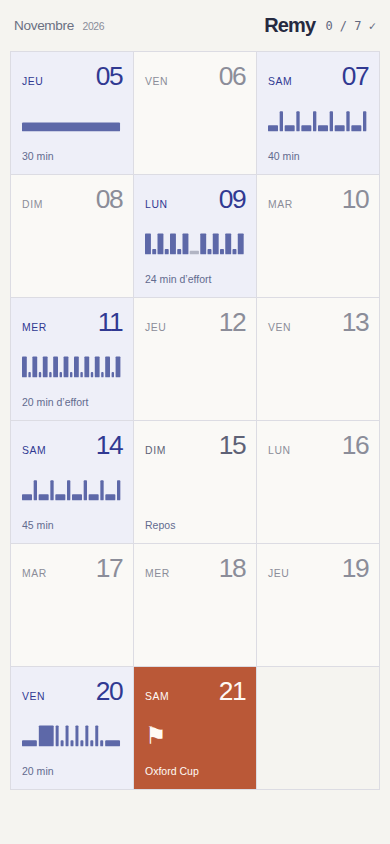
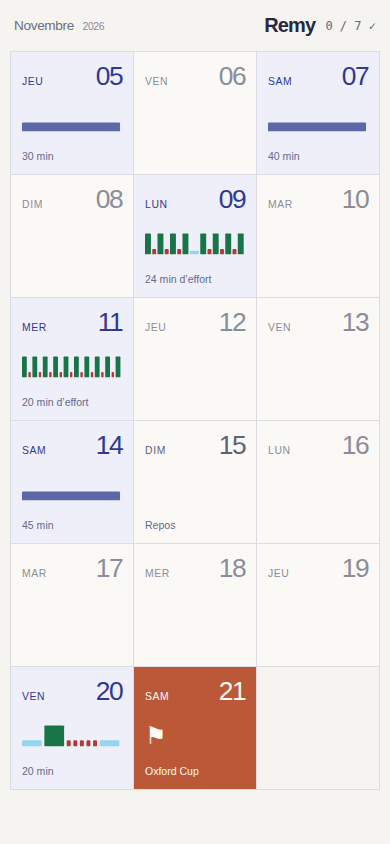
Aligne les graphiques sur les couleurs du chrono sans strides

diff --git a/style.css b/style.css
@@ -1,6 +1,6 @@
 @layer base, calendar, details, timer;
 @layer base {
-  :root { font-family: Arial, Helvetica, sans-serif; color: #252940; background: #f5f4f0; font-synthesis: none; --ink: #303992; --paper: #f7f6f2; --muted: #797b88; --line: #dcdce3; --accent: #d76b42; }
+  :root { font-family: Arial, Helvetica, sans-serif; color: #252940; background: #f5f4f0; font-synthesis: none; --ink: #303992; --paper: #f7f6f2; --muted: #797b88; --line: #dcdce3; --accent: #d76b42; --phase-easy: #94d5f2; --phase-neutral: #d7d9dd; --phase-effort: #197447; --phase-recovery: #b33937; }
   * { box-sizing: border-box; }
   body { margin: 0; }
   button { font: inherit; cursor: pointer; min-height: 48px; touch-action: manipulation; -webkit-tap-highlight-color: transparent; }
@@ -42,7 +42,10 @@
   .day-button.race .day-short { color:#fffaf5; }
   .race-flag { font-size:1.5rem; position:absolute; top:45%; }
   .workout-graph { display:block; width:100%; height:30%; max-height:40px; fill:#5d68a8; overflow:visible; }
-  .graph-gap { fill:#b1b4c3; }
+  .workout-graph [data-kind=effort] { fill:var(--phase-effort); }
+  .workout-graph [data-kind=recovery] { fill:var(--phase-recovery); }
+  .workout-graph [data-kind=easy],.workout-graph [data-kind=long-recovery] { fill:var(--phase-easy); }
+  .workout-graph [data-kind=warmup],.workout-graph [data-kind=cooldown],.workout-graph [data-kind=overtime] { fill:var(--phase-neutral); }
   .day-button.completed { box-shadow:inset 0 0 0 2px #303992; }
   .day-marker { position:absolute; right:9px; bottom:9px; background:#303992; color:white; width:20px; height:20px; border-radius:50%; text-align:center; line-height:20px; font-size:.72rem; }
   .day-button.completed .day-short { padding-right:20px; }
@@ -97,10 +100,10 @@
 }
 @layer timer {
   body.timer-open { overflow:hidden; }
-  .timer-screen { position:fixed; inset:0; z-index:20; overflow:auto; background:#94d5f2; color:#18364a; --phase:#254b65; --timer-ink:#18364a; display:flex; flex-direction:column; min-height:100dvh; padding:max(14px,env(safe-area-inset-top)) max(18px,env(safe-area-inset-right)) max(14px,env(safe-area-inset-bottom)) max(18px,env(safe-area-inset-left)); }
-  .timer-screen[data-kind=warmup],.timer-screen[data-kind=cooldown],.timer-screen[data-kind=overtime],.timer-screen[data-kind=done] { background:#d7d9dd; color:#292f38; --phase:#4e5867; --timer-ink:#292f38; }
-  .timer-screen[data-kind=effort],.timer-screen[data-kind=stride] { background:#197447; color:#fff; --phase:#e0f3e7; --timer-ink:#fff; }
-  .timer-screen[data-kind=recovery] { background:#b33937; color:#fff; --phase:#ffe7e1; --timer-ink:#fff; }
+  .timer-screen { position:fixed; inset:0; z-index:20; overflow:auto; background:var(--phase-easy); color:#18364a; --phase:#254b65; --timer-ink:#18364a; display:flex; flex-direction:column; min-height:100dvh; padding:max(14px,env(safe-area-inset-top)) max(18px,env(safe-area-inset-right)) max(14px,env(safe-area-inset-bottom)) max(18px,env(safe-area-inset-left)); }
+  .timer-screen[data-kind=warmup],.timer-screen[data-kind=cooldown],.timer-screen[data-kind=overtime],.timer-screen[data-kind=done] { background:var(--phase-neutral); color:#292f38; --phase:#4e5867; --timer-ink:#292f38; }
+  .timer-screen[data-kind=effort],.timer-screen[data-kind=stride] { background:var(--phase-effort); color:#fff; --phase:#e0f3e7; --timer-ink:#fff; }
+  .timer-screen[data-kind=recovery] { background:var(--phase-recovery); color:#fff; --phase:#ffe7e1; --timer-ink:#fff; }
   .timer-screen[data-kind=race] { background:#302f4c; color:#fff; --phase:#e1def6; --timer-ink:#fff; }
   .timer-header { display:flex; align-items:center; justify-content:space-between; gap:8px; font-size:.75rem; }
   .timer-header .quiet { font-size:.72rem; padding:8px; }

diff --git a/app.js b/app.js
@@ -58,14 +58,12 @@ function workoutGraph(day,detail=false) {
   let bars=[];
   if(w.type==='repeats') {
     for(let b=0;b<w.blocks;b++) {
-      if(b) bars.push({height:4,width:14,gap:true});
-      for(let r=0;r<w.reps;r++) {bars.push({height:24,width:w.effortSeconds/20});if(r<w.reps-1)bars.push({height:6,width:w.recoverySeconds/20});}
+      if(b) bars.push({height:4,width:14,kind:'long-recovery'});
+      for(let r=0;r<w.reps;r++) {bars.push({height:24,width:w.effortSeconds/20,kind:'effort'});if(r<w.reps-1)bars.push({height:6,width:w.recoverySeconds/20,kind:'recovery'});}
     }
-  } else if(w.type==='easy-strides') {
-    for(let i=0;i<w.strideCount;i++){bars.push({height:7,width:12},{height:23,width:w.strideSeconds/5});}
-  } else if(w.type==='jog') bars=[{height:10,width:100}];
-  else bars=buildPhases(w).map(p=>({height:['effort','stride'].includes(p.kind)?24:7,width:Math.max(3,(p.seconds||0)/20)}));
-  let x=0;const shapes=bars.map(v=>{const rect=`<rect x="${x}" y="${28-v.height}" width="${v.width}" height="${v.height}" rx="1"${v.gap?' class="graph-gap"':''}/>`;x+=v.width+2;return rect;}).join('');
+  } else if(['jog','easy-strides'].includes(w.type)) bars=[{height:10,width:100}];
+  else bars=buildPhases(w).filter(p=>p.kind!=='stride').map(p=>({height:p.kind==='effort'?24:7,width:Math.max(3,(p.seconds||0)/20),kind:p.kind}));
+  let x=0;const shapes=bars.map(v=>{const rect=`<rect x="${x}" y="${28-v.height}" width="${v.width}" height="${v.height}" rx="1"${v.kind?` data-kind="${escape(v.kind)}"`:''}/>`;x+=v.width+2;return rect;}).join('');
   return `<svg class="workout-graph ${detail?'graph-detail':''}" viewBox="0 0 ${x} 30" preserveAspectRatio="none" aria-hidden="true">${shapes}</svg>`;
 }
 function renderDays() {

diff --git a/mise-a-jour.html b/mise-a-jour.html
@@ -2,7 +2,7 @@
 <html lang="fr-CA">
 <head>
 <meta charset="utf-8"><meta name="viewport" content="width=device-width,initial-scale=1">
-<meta name="remy-build" content="remy-3a71922d8d44545f"><title>Actualiser Remy</title>
+<meta name="remy-build" content="remy-e422b9cb2ace0c05"><title>Actualiser Remy</title>
 <style>body{margin:0;padding:32px;font:16px/1.6 Arial,sans-serif;background:#f5f4f0;color:#252940}main{max-width:480px;margin:12vh auto}h1{font-size:28px;letter-spacing:-1px}a{color:#303992}p{margin:20px 0}</style>
 </head>
 <body><main><h1>Actualisation de Remy</h1><p id="status" role="status">Recherche de la dernière version… Tes séances faites sont conservées.</p><a href="./">Retour au calendrier</a></main>

diff --git a/index.html b/index.html
@@ -3,7 +3,7 @@
 <head>
   <meta charset="utf-8">
   <meta name="viewport" content="width=device-width, initial-scale=1, viewport-fit=cover">
-  <meta name="remy-build" content="remy-3a71922d8d44545f">
+  <meta name="remy-build" content="remy-e422b9cb2ace0c05">
   <meta name="theme-color" content="#f5f4f0">
   <meta name="description" content="Le carnet de course de Remy. Calendrier et chronomètre pour l’Oxford Cup du 21 novembre 2026.">
   <title>Remy — Calendrier</title>

diff --git a/sw.js b/sw.js
@@ -1,5 +1,5 @@
 // Generated build identity includes this worker and every static resource.
-const VERSION = 'remy-3a71922d8d44545f';
+const VERSION = 'remy-e422b9cb2ace0c05';
 const SCOPE = new URL(self.registration.scope);
 const CACHE = `${VERSION}@${SCOPE.pathname}`;
 const FILES = ['./','./index.html','./mise-a-jour.html','./style.css','./app.js','./engine.js','./schedule.json','./icon.svg','./icon-192.png','./icon-512.png','./manifest.webmanifest'];

diff --git a/docs/verification.md b/docs/verification.md
@@ -6,7 +6,7 @@ Version adaptée après l’essai d’Eric sur Galaxy. Vérifications de cette n
 
 - **29 tests moteur** : calendrier continu du 5 au 21; prescriptions séparées des 5, 7 et 14; 24 minutes d’effort le 9, 20 le 11, activation de 20 minutes inchangée; échauffements ouverts; pause interblocs libre; pause/reprise; retards d’horodatages; arrêt explicite; temps supplémentaire; strides au-delà de six; distinction lancés/complétés/interrompus; reprise de deux chronos sauvegardés; total réel par phase.
 - **25 parcours navigateur** : calendrier et fiches, suivi local, sous-chemin `/Remy/`, six tailles de fenêtre de 320 à 1 440 px, verrouillage et annulations d’appui, clavier, navigation protégée, phases, vue paysage, activation, rechargement hors ligne, refus des API plein écran/écran éveillé, stockage indisponible et reprise après arrière-plan.
-- **12 parcours mobiles avec événements tactiles Chromium** : grandes cases carrées à 412×915, recommandations et graphique du lundi, maintiens de 3 s indépendants du verrouillage, annulation à 2 999 ms/au déplacement/à l’interruption, maintiens de 1 s, double affichage, pause/reprise/rechargement d’un stride, septième stride autorisé, deux variations légères de luminosité, résumé d’un stride interrompu, temps supplémentaire et franchissement de zéro pendant un stride.
+- **13 parcours mobiles avec événements tactiles Chromium** : grandes cases carrées à 412×915, recommandations et graphique du lundi, maintiens de 3 s indépendants du verrouillage, annulation à 2 999 ms/au déplacement/à l’interruption, maintiens de 1 s, double affichage, pause/reprise/rechargement d’un stride, septième stride autorisé, deux variations légères de luminosité, résumé d’un stride interrompu, temps supplémentaire et franchissement de zéro pendant un stride.
 - Données et cache vérifiés avec `npm run check`; export `dist/` vérifié avec `npm run build`. Les durées d’effort/récupération et la séquence de l’activation du 20 ne changent pas.
 
 Captures : [calendrier](apercu-mobile.png), [fiche du 9](apercu-fiche.png), [chrono](apercu-chrono.png), [échauffement](apercu-echauffement.png), [stride](apercu-stride.png), [résumé](apercu-resume.png), [bureau](apercu-bureau.png). Les coches et totaux des captures appartiennent seulement aux profils de test.
@@ -23,7 +23,7 @@ Les instantanés d’anciens chronos devenus incompatibles sont écartés avec u
 
 ## Correction des strides et migration du cache
 
-Correction confirmée par Eric : le 7 reste à 40 minutes, le 14 à 45 minutes; les deux ont six strides de 20 secondes. Le moteur, les fiches et les graphiques lisent ces mêmes données. Aucune autre prescription n’est modifiée.
+Correction confirmée par Eric : le 7 reste à 40 minutes, le 14 à 45 minutes; les deux ont six strides de 20 secondes. Le moteur et les fiches lisent ces mêmes données; depuis le 6 novembre, les graphiques masquent les strides à la demande d’Eric. Aucune autre prescription n’est modifiée.
 
 Le défaut de cache a été reproduit : avec le commit `6ab5284` actif et `8755ed8` en attente, recharger ne suffit pas; l’ancien calendrier de 15 cases reste affiché. Le service worker servait les anciens fichiers en priorité et attendait la fermeture de toutes les fenêtres pour activer la nouvelle version. Références du mécanisme : [activation immédiate contrôlée](https://developer.mozilla.org/en-US/docs/Web/API/ServiceWorkerGlobalScope/skipWaiting), [vérification des mises à jour](https://developer.mozilla.org/en-US/docs/Web/API/ServiceWorkerRegistration/update).
 
@@ -32,6 +32,12 @@ La nouvelle version télécharge un ensemble complet avec des requêtes propres 
 **12 scénarios de migration réussis** simulent les deux anciens états, une mise à jour future avec chrono actif, une connexion coupée et un fichier manquant. Les coches et les chronos compatibles mis en pause sont conservés; une mise à jour incomplète laisse la version hors ligne précédente disponible. Les caches d’autres chemins et localStorage ne sont pas supprimés.
 
 La nouvelle apparence est vérifiée après migration en fenêtres **360×800** et **412×915** : trois colonnes, cases carrées, noms des jours, mini-graphiques des 9 et 11, mois discret. Captures : [avant migration](migration-avant.png), [après, 360 px](migration-360.png), [après, 412 px](migration-412.png). Il s’agit de simulations Chromium, pas d’une observation du Galaxy d’Eric.
+
+## Graphiques du 6 novembre 2026
+
+Les strides sont retirés des graphiques du calendrier et des fiches, y compris ceux de l’activation du 20. Les jogs des 7 et 14 gardent une barre continue; leurs six strides de 20 secondes restent dans les descriptions et les chronos. Les graphiques d’intervalles utilisent les mêmes valeurs CSS que les fonds du chrono : effort vert, récupération courte rouge, pause interblocs bleu ciel; les phases faciles sont bleu ciel et les phases neutres, si représentées, grises. Aucune phase ni durée inconnue n’est ajoutée aux graphiques.
+
+Le contenu des séances et le moteur restent identiques au commit `0f94bdd`; seul l’identifiant de révision du calendrier passe à `2026-11-06.1`. Les essais tactiles comparent les couleurs calculées des graphiques aux fonds du chrono lors des efforts et récupérations. Les migrations incluent la version publiée `0f94bdd` et vérifient les nouvelles barres, les couleurs et la conservation des coches. Les captures mobiles sont des simulations Chromium, pas des essais physiques sur Galaxy.
 
 ## Référence GBoxeur et revue Astra
 

diff --git a/AGENTS.md b/AGENTS.md
@@ -3,7 +3,8 @@
 Projet statique indépendant pour Remy. Lire README.md et docs/seances.md avant de modifier le calendrier.
 
 - Source du programme : schedule.json. Ne pas inventer d’entraînement, de durée ou de zone. Les inconnues restent explicites.
-- Accueil : seulement le calendrier interactif, sans vert, accroche, panneau d’aide ou barre du bas. Les détails appartiennent aux fiches ouvertes par les dates.
+- Accueil : seulement le calendrier interactif, sans accroche, panneau d’aide ou barre du bas. Les détails appartiennent aux fiches ouvertes par les dates.
+- Graphiques : aucun stride représenté, même dans les étapes de l’activation; conserver les descriptions et chronos. Les phases d’intervalles représentées partagent exactement les couleurs du chrono. Cette demande remplace l’interdiction initiale du vert à l’accueil.
 - Français québécois, langage simple : jog facile, récupération, répétitions, accélérations.
 - Activation confirmée vendredi 20 novembre 2026; course samedi 21. La clarification du 5 novembre remplace l’ambiguïté antérieure.
 - Garder les données locales au navigateur et le fonctionnement hors ligne. Pas de compte ni de synchronisation implicite.

diff --git a/README.md b/README.md
@@ -19,6 +19,8 @@ L’écran d’accueil contient uniquement le calendrier : chaque journée est u
 
 Couleurs du chrono : jog et pause entre blocs **bleu ciel**, échauffement/retour au calme/temps supplémentaire **gris**, efforts et strides **vert**, récupérations courtes **rouge**. Deux variations légères de luminosité signalent la fin d’un stride; elles sont désactivées si la réduction des animations est demandée sur l’appareil.
 
+Les graphiques du calendrier et des fiches ne représentent pas les strides; ceux-ci restent dans les descriptions et les chronomètres. Les phases d’intervalles représentées utilisent les couleurs du chrono. Les jogs ont une barre continue.
+
 Le suivi et les chronos sont enregistrés séparément pour chaque date dans `localStorage`. Ils appartiennent au navigateur, au profil et à l’adresse du site utilisés. Pas de synchronisation entre le téléphone d’Eric et celui de Remy, ni entre Chrome et un autre navigateur. Effacer les données peut effacer le suivi. Utiliser une seule fenêtre du chrono à la fois.
 
 ### Android / Chrome
